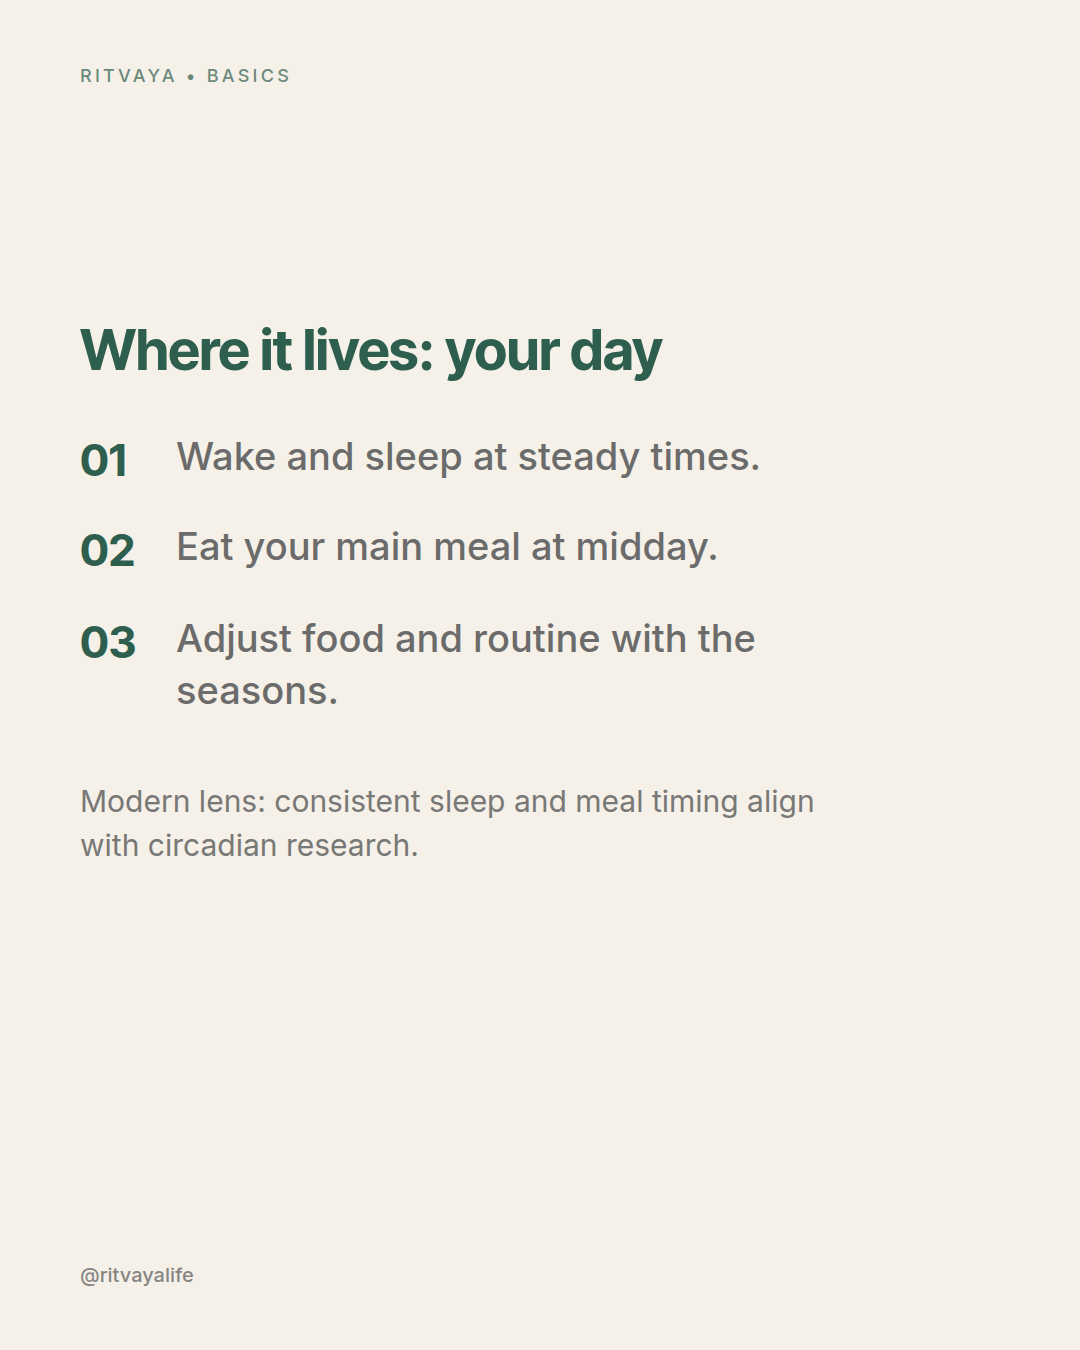
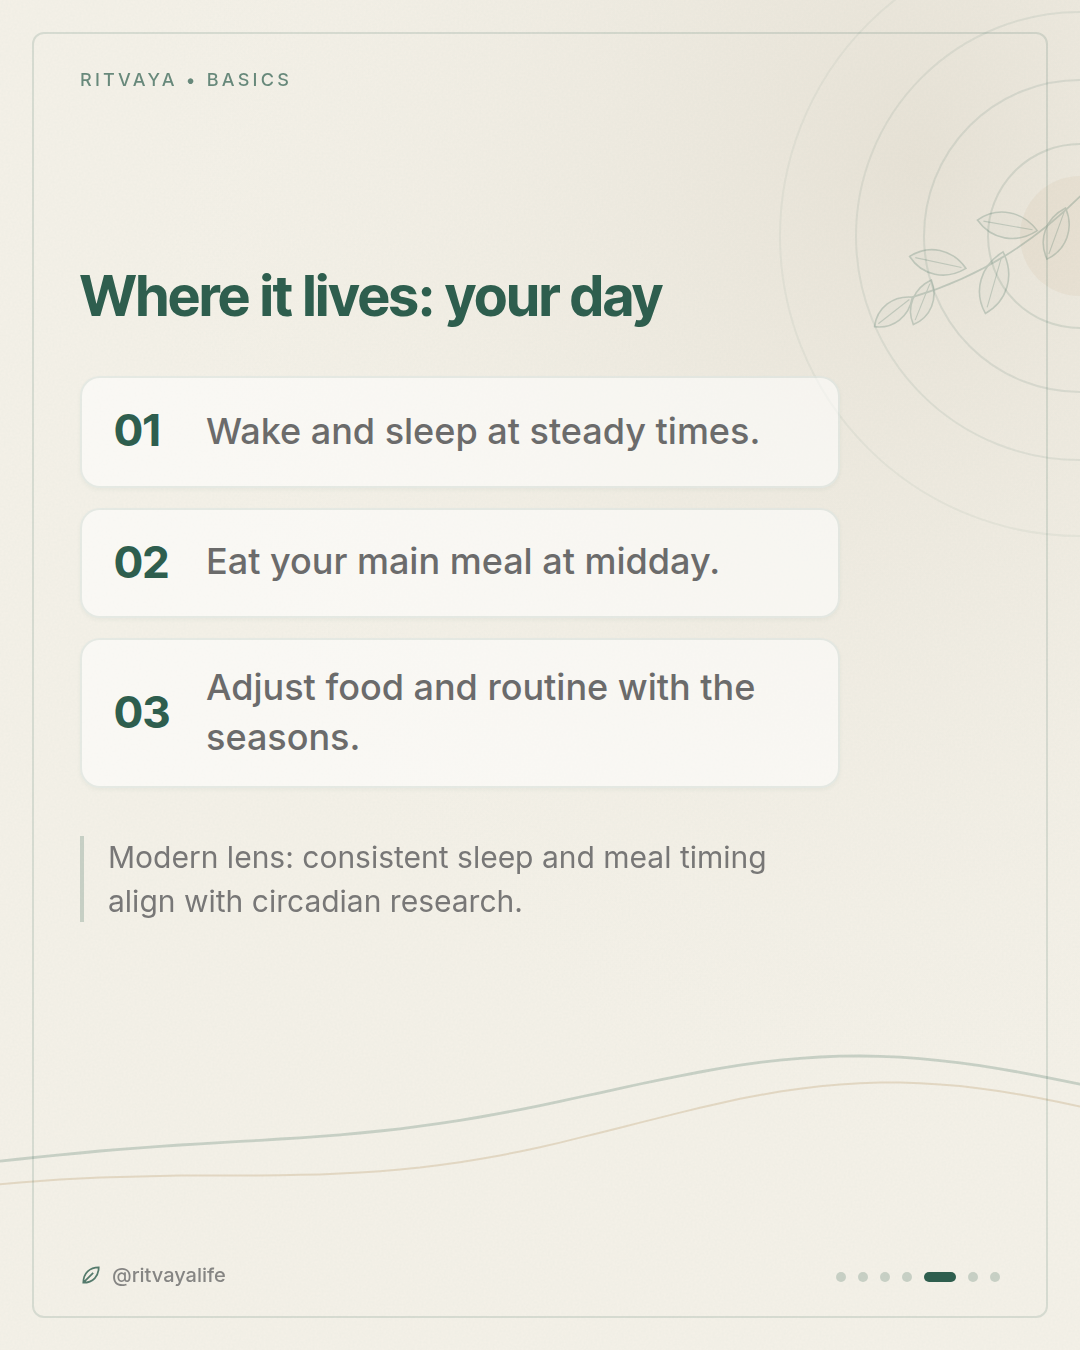
Add background design to carousel slides
Soft paper grain and warm glow, leaf line-art, a rhythm line and rings
that continue across slides, cards for lists, a frame, and progress dots.

Claude-Session: https://claude.ai/code/session_019TF3rT6Ca2FqNDC5GM28mb

diff --git a/carousel/README.md b/carousel/README.md
@@ -1,7 +1,8 @@
 # Ritvayalife carousel renderer
 
 Turns carousel text (JSON) into Instagram-ready 1080 × 1350 PNGs in the Ritvayalife style
-(cream background, green headlines, Inter / Inter Tight, text-only).
+(cream background, green headlines, Inter / Inter Tight). Each slide gets soft grain, a leaf
+motif, and a rhythm line + rings that flow continuously from one slide into the next.
 
 ## Download ready-made slides
 
